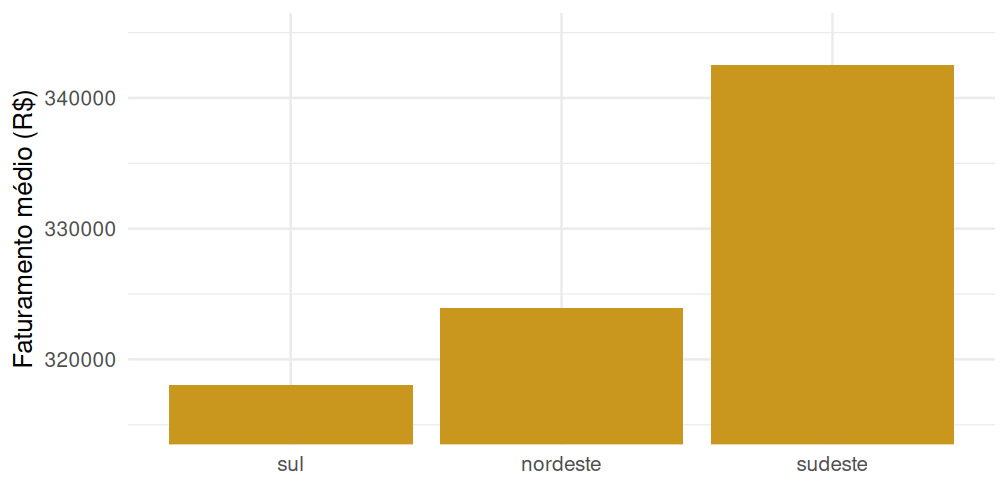
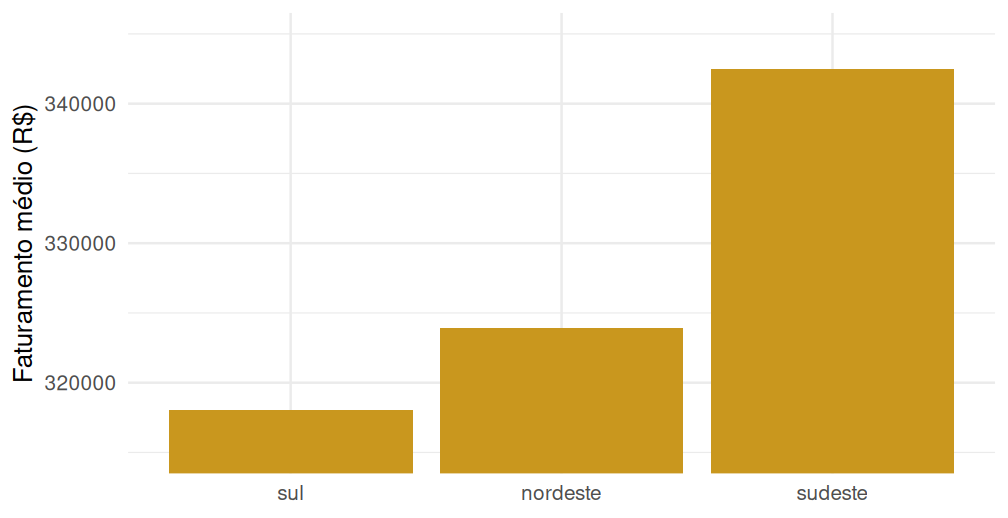
Corrige conteúdo cortado (overflow) em 9 decks e tabela do cronograma no mobile
Escrevi um verificador automático (headless Chrome via chromote, medindo a altura real de
cada slide renderizado por slide/build incremental do remark.js contra os 681px de área
visível) e rodei nos 29 decks + o novo MATF14-02. Encontrou 14 slides cortados em 9 aulas
(02, 03, 06, 08, 19, 21, 25, 27, 28): dividido em mais slides onde havia texto+imagem+gráfico
acumulados demais num só, ajustado tamanho de imagem onde a divisão não era necessária.
Reverificado após cada correção; varredura final confirma 0 slides com overflow.

Também verifiquei o livro (bookdown) e a página do curso contra overflow horizontal: o livro
já estava limpo, mas a tabela do cronograma na página do curso ultrapassava a tela em telas
estreitas (celular) — envolvida agora em scroll_box() para rolar dentro de si mesma sem
quebrar a página.

diff --git a/Aulas2026/MATF14-03.html b/Aulas2026/MATF14-03.html
@@ -30,7 +30,9 @@ Faturamento médio de 1999 (`empresas.csv`), por região, eixo começando em **z
 
 &lt;img src="MATF14-03_files/figure-html/fig-eixo-zero-1.png" alt="" width="504" /&gt;
 
---
+---
+
+## Provocação 1: a mesma base, eixo cortado
 
 Exatamente os **mesmos três números**, eixo começando perto do menor valor:
 
@@ -115,12 +117,13 @@ fração pequena do de prefeitos.
 **Erro comum**: usar gráfico de linha para conectar categorias *sem ordem numérica*, sugere uma
 tendência que não existe.
 
---
+---
 
-**Uso correto**, três variáveis ao mesmo tempo (sexo, raça e o ano, esse sim uma sequência
-temporal):
+## Uso correto de linha: três variáveis ao mesmo tempo
 
-&lt;img src="images/forca_trabalho_raca_sexo.jpg" alt="" width="60%" /&gt;
+Sexo, raça e o ano (esse sim uma sequência temporal):
+
+&lt;img src="images/forca_trabalho_raca_sexo.jpg" alt="" width="58%" /&gt;
 
 ---
 
@@ -132,13 +135,15 @@ class: inverse, center, middle
 
 ## O "gender pay gap" é um histograma disfarçado de notícia
 
-&lt;img src="images/gender_pay_gap.png" alt="" width="65%" /&gt;
+&lt;img src="images/gender_pay_gap.png" alt="" width="52%" /&gt;
 
-Eixo x = classes de diferença salarial (de "&gt;50% mulheres ganham mais" a "&gt;50% homens ganham
-mais"); eixo y = número de empresas naquela classe. **É a mesma ideia da tabela de frequências**,
-com barras no lugar de números: por isso "78% das empresas pagam mais aos homens" (a maioria das
-barras está do lado roxo) é mais defensável que uma média isolada, ela usa a distribuição inteira,
-não um único número resumo.
+Eixo x = classes de diferença salarial; eixo y = número de empresas naquela classe. **É a mesma
+ideia da tabela de frequências**, com barras no lugar de números.
+
+--
+
+Por isso "78% das empresas pagam mais aos homens" (a maioria das barras está do lado roxo) é mais
+defensável que uma média isolada: usa a distribuição inteira, não um único número resumo.
 
 ---
 
@@ -197,22 +202,32 @@ class: inverse, center, middle
 
 ---
 
-## Primeira rodada
+## Primeira rodada — Questão 1
 
-**1.** Volte às duas Provocações de abertura (eixo cortado; pizza de 6 fatias). Para cada uma,
-proponha o gráfico alternativo que resolveria o problema e explique, formalmente, por que resolve.
+Volte às duas Provocações de abertura (eixo cortado; pizza de 6 fatias). Para cada uma, proponha
+o gráfico alternativo que resolveria o problema e explique, formalmente, por que resolve.
 
-**2.** Veja a notícia abaixo, sobre consumo médio de refrigerante por domicílio/ano:
+---
 
-&lt;img src="images/refri_estatisticas.png" alt="" width="55%" /&gt;
+## Primeira rodada — Questão 2
+
+Veja a notícia abaixo, sobre consumo médio de refrigerante por domicílio/ano:
+
+&lt;img src="images/refri_estatisticas.png" alt="" width="50%" /&gt;
+
+--
 
 &lt;img src="MATF14-03_files/figure-html/fig-refri-grafico-1.png" alt="" width="360" /&gt;
 
 Esse gráfico compara **médias entre países**. Que informação um histograma da distribuição de
 consumo *dentro* de um único país acrescentaria, que a barra do valor médio esconde?
 
-**3.** Refaça o histograma de faturamento com `bins = 5` e depois com `bins = 60`. Em cada extremo,
-que conclusão errada um leitor apressado poderia tirar?
+---
+
+## Primeira rodada — Questão 3
+
+Refaça o histograma de faturamento com `bins = 5` e depois com `bins = 60`. Em cada extremo, que
+conclusão errada um leitor apressado poderia tirar?
 
 ---
 

diff --git a/Aulas2026/MATF14-21.html b/Aulas2026/MATF14-21.html
@@ -124,22 +124,25 @@ As duas contas praticamente coincidem, a aproximação já é excelente com \(n=
 
 ## Mortes no trânsito como contagem Poisson
 
-&lt;img src="images/noticia_acidentes.jpg" alt="" width="65%" /&gt;
+&lt;img src="images/noticia_acidentes.jpg" alt="" width="311" height="480px" /&gt;
 
-165 mortes na semana do Natal de 2024 vs. 90 no mesmo período de 2023: sob um modelo Poisson com
-\(\lambda\) estimado pelo histórico da própria semana em anos anteriores, esse salto exige
-perguntar se \(\lambda\) mudou (mais tráfego, menos fiscalização) ou se é apenas variação natural
-em torno da mesma taxa média.
+---
+
+## Mortes no trânsito: o que muda é \(\lambda\)
+
+165 mortes na semana do Natal de 2024 vs. 90 no mesmo período de 2023: esse salto exige perguntar
+se \(\lambda\) mudou (mais tráfego, menos fiscalização) ou se é apenas variação natural em torno da
+mesma taxa média.
 
 ---
 
 ## Gols em uma partida
 
-&lt;img src="images/noticia_gols.jpg" alt="" width="65%" /&gt;
+&lt;img src="images/noticia_gols.jpg" alt="" width="50%" /&gt;
 
 PSG 5 x 4 Bayern: 9 gols somados é um evento na cauda direita da distribuição de gols de uma
 partida, raro, mas não a ponto de descartar o modelo Poisson, é justamente esse tipo de evento
-extremo que os modelos de "gols esperados" (xG) tentam calibrar a partir de \(\lambda\).
+extremo que os modelos de "gols esperados" (xG) tentam calibrar.
 
 ---
 

diff --git a/Aulas2026/MATF14-19.html b/Aulas2026/MATF14-19.html
@@ -145,15 +145,19 @@ duas usando a tabela e confirme numericamente.
 
 ## Rodada 2: leia outra FDA
 
-&lt;img src="images/fda_exercicio.png" alt="" width="55%" /&gt;
+&lt;img src="images/fda_exercicio.png" alt="" width="50%" /&gt;
 
 **3.** Nesse gráfico, o círculo **cheio** marca o ponto que pertence à escada (o valor de \(F\) ali),
 o círculo **aberto** marca o valor que a escada está deixando para trás no salto seguinte. Leia
 \(F(2)\), \(P(X&gt;2)\) e \(P(X=3)\) diretamente do gráfico.
 
-**4.** A partir só desse gráfico (sem nenhuma tabela de \(p(x)\)), como você recuperaria \(p(x_i)\)
-para cada \(x_i\)? Escreva a fórmula geral usando a diferença de dois valores de \(F\), e confira
-aplicando-a aos saltos que você acabou de ler.
+---
+
+## Rodada 2: continuação
+
+**4.** A partir só do gráfico anterior (sem nenhuma tabela de \(p(x)\)), como você recuperaria
+\(p(x_i)\) para cada \(x_i\)? Escreva a fórmula geral usando a diferença de dois valores de \(F\), e
+confira aplicando-a aos saltos que você acabou de ler.
 
 **5.** Um contrato de seguro paga um bônus se "o segurado tiver no máximo 1 sinistro no ano". Um
 segundo contrato paga o mesmo bônus se "o segurado tiver menos de 2 sinistros". Para uma variável

diff --git a/Aulas2026/MATF14-27.html b/Aulas2026/MATF14-27.html
@@ -115,13 +115,18 @@ ggplot(tibble(x = c(-5,0,0,60,60,65), y = c(0,0,1/60,1/60,0,0)), aes(x,y)) +
 
 ## Simulação confirma a teoria
 
-&lt;img src="images/hist_unif01.png" alt="" width="62%" /&gt;
+&lt;img src="images/hist_unif01.png" alt="" width="55%" /&gt;
 
 1000 valores simulados de Unif(0,1) (`runif(1000)`), agrupados em histograma (barras cinzas, a
-mesma ferramenta do Capítulo 1). A curva vermelha é a densidade teórica \(f(x)=1\); a linha azul é a
-média teórica, \(E(X)=0{,}5\). O histograma, mesmo com ruído amostral, já se aproxima da densidade
-constante prevista pela teoria, exatamente o elo entre "dado observado" e "modelo" que este capítulo
-constrói.
+mesma ferramenta do Capítulo 1).
+
+---
+
+## Lendo o histograma simulado
+
+A curva vermelha é a densidade teórica \(f(x)=1\); a linha azul é a média teórica, \(E(X)=0{,}5\). O
+histograma, mesmo com ruído amostral, já se aproxima da densidade constante prevista pela teoria,
+exatamente o elo entre "dado observado" e "modelo" que este capítulo constrói.
 
 ---
 

diff --git a/index.html b/index.html
@@ -448,6 +448,7 @@ acadêmico oficial da UFBA para 2026.2</a>. Aulas às <strong>segundas e
 quartas, 10:40–12:30, Sala 22, PAF I</strong>. O cronograma usa todos os
 encontros disponíveis entre 24/08 e 16/12 sem folga, qualquer feriado
 não previsto aqui empurra as datas seguintes.</p>
+<div style="border: 1px solid #ddd; padding: 5px; overflow-x: scroll; width:100%; ">
 <table class="table table-striped table-hover table-condensed" style="font-size: 14px; margin-left: auto; margin-right: auto;">
 <thead>
 <tr>
@@ -902,6 +903,7 @@ Revisão geral pré-Prova 3
 </tr>
 </tbody>
 </table>
+</div>
 <hr />
 <div id="dados" class="section level4">
 <h4>Dados</h4>

diff --git a/Aulas2026/MATF14-25.html b/Aulas2026/MATF14-25.html
@@ -109,7 +109,7 @@ teórica.
 
 ## \(E(X)\) fora da economia: engenharia aeronáutica
 
-&lt;img src="images/peso_esperado_aviao.jpg" alt="" width="70%" /&gt;
+&lt;img src="images/peso_esperado_aviao.jpg" alt="" width="58%" /&gt;
 
 Companhias aéreas projetam cabines com base no **peso esperado** por passageiro. Quando o peso real
 passa a exceder sistematicamente o peso de projeto, a estrutura precisa ser refeita, o mesmo

diff --git a/Aulas2026/MATF14-28.html b/Aulas2026/MATF14-28.html
@@ -82,7 +82,7 @@ class: inverse, center, middle
 
 ## A "Fórmula de Midas"
 
-&lt;img src="images/black_scholes.jpg" alt="" width="55%" /&gt;
+&lt;img src="images/black_scholes.jpg" alt="" width="46%" /&gt;
 
 Black-Scholes-Merton (1973) precifica opções assumindo retornos aproximadamente Normais. Quando os
 mercados se afastam dessa suposição (caudas gordas, Cap. 1), o modelo pode falhar de forma

diff --git a/Aulas2026/MATF14-08.html b/Aulas2026/MATF14-08.html
@@ -34,7 +34,9 @@ class: inverse, center, middle
 &gt; Duas distribuições salariais podem ter a mesma média e o mesmo desvio padrão e ainda parecerem
 &gt; completamente diferentes num histograma. O que mais falta medir?
 
---
+---
+
+## Duas distribuições, mesma média e desvio padrão
 
 Duas distribuições simuladas, forçadas a ter **exatamente** a mesma média e o mesmo desvio padrão:
 

diff --git a/Aulas2026/MATF14-02.html b/Aulas2026/MATF14-02.html
@@ -115,7 +115,7 @@ acho o arquivo").
 
 ---
 
-## R e Python como calculadora
+## R como calculadora
 
 Antes de qualquer coisa, R e Python já funcionam como uma calculadora, sem instalar nada extra:
 
@@ -160,7 +160,9 @@ round(exp(1), 4)
 ## [1] 2.7183
 ```
 
---
+---
+
+## Python como calculadora
 
 O mesmo em Python (`**` no lugar de `^`, e as funções vêm do módulo `math`):
 

diff --git a/Aulas2026/MATF14-06.html b/Aulas2026/MATF14-06.html
@@ -35,7 +35,9 @@ class: inverse, center, middle
 &gt; E se eu disser que o desvio padrão de "faturamento em R\$ mil" de uma empresa é maior que o de
 &gt; "número de funcionários"? Isso já me diz qual variável é "mais arriscada"?
 
---
+---
+
+## As duas ações da provocação, ano a ano
 
 Exatamente as duas ações da provocação, ano a ano:
 
